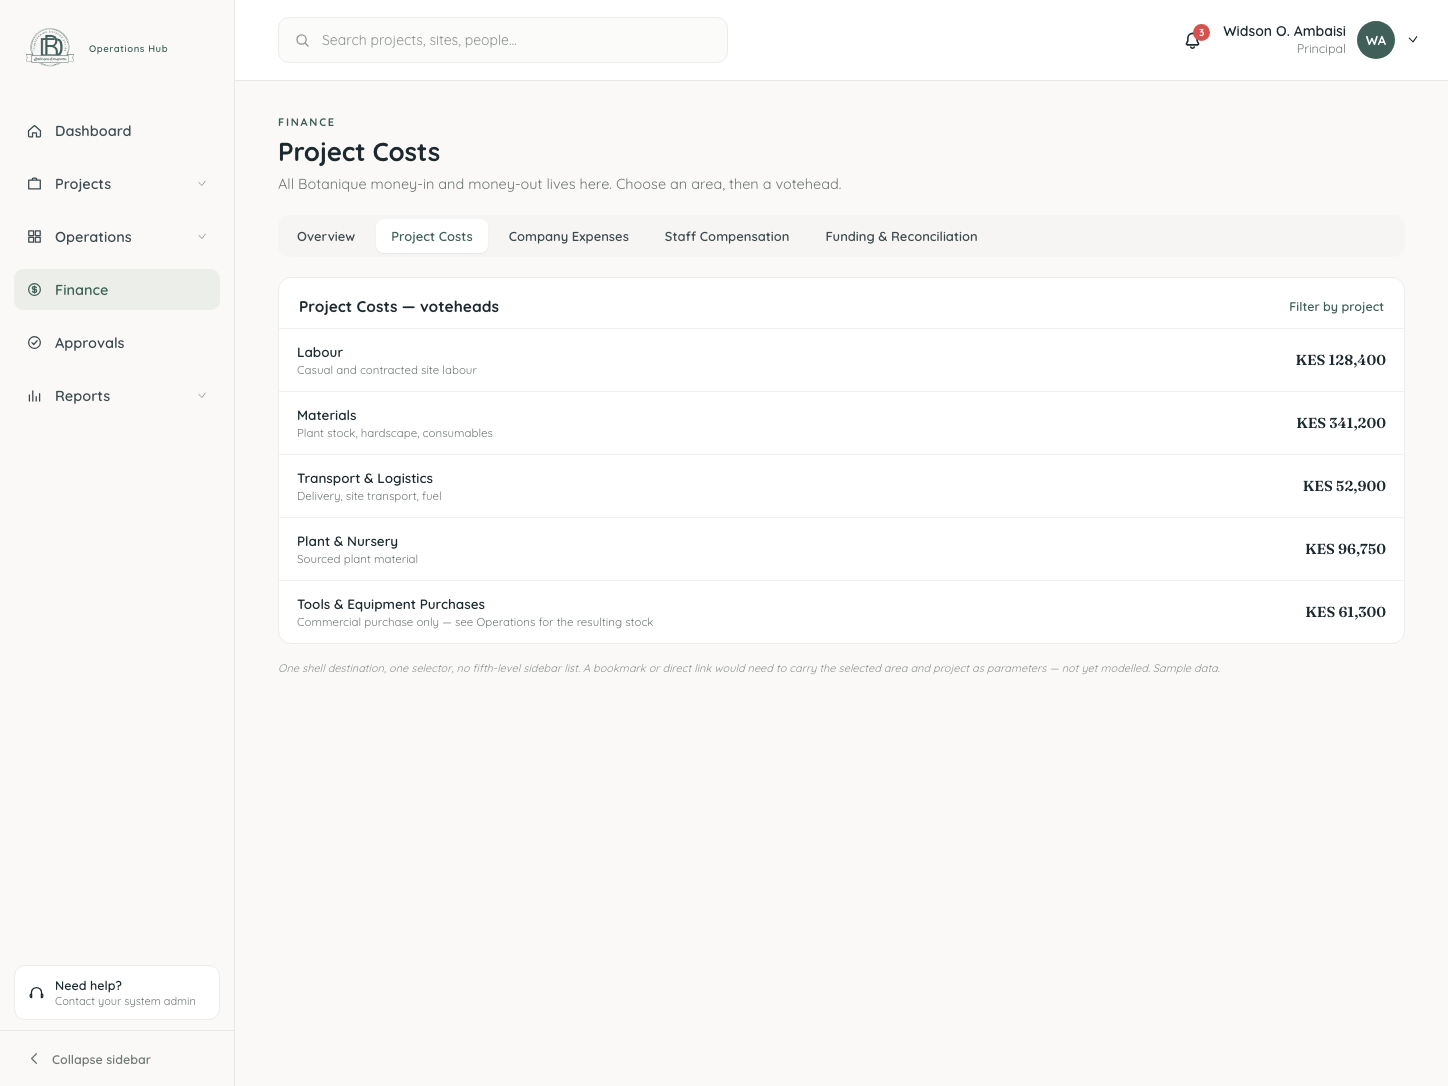
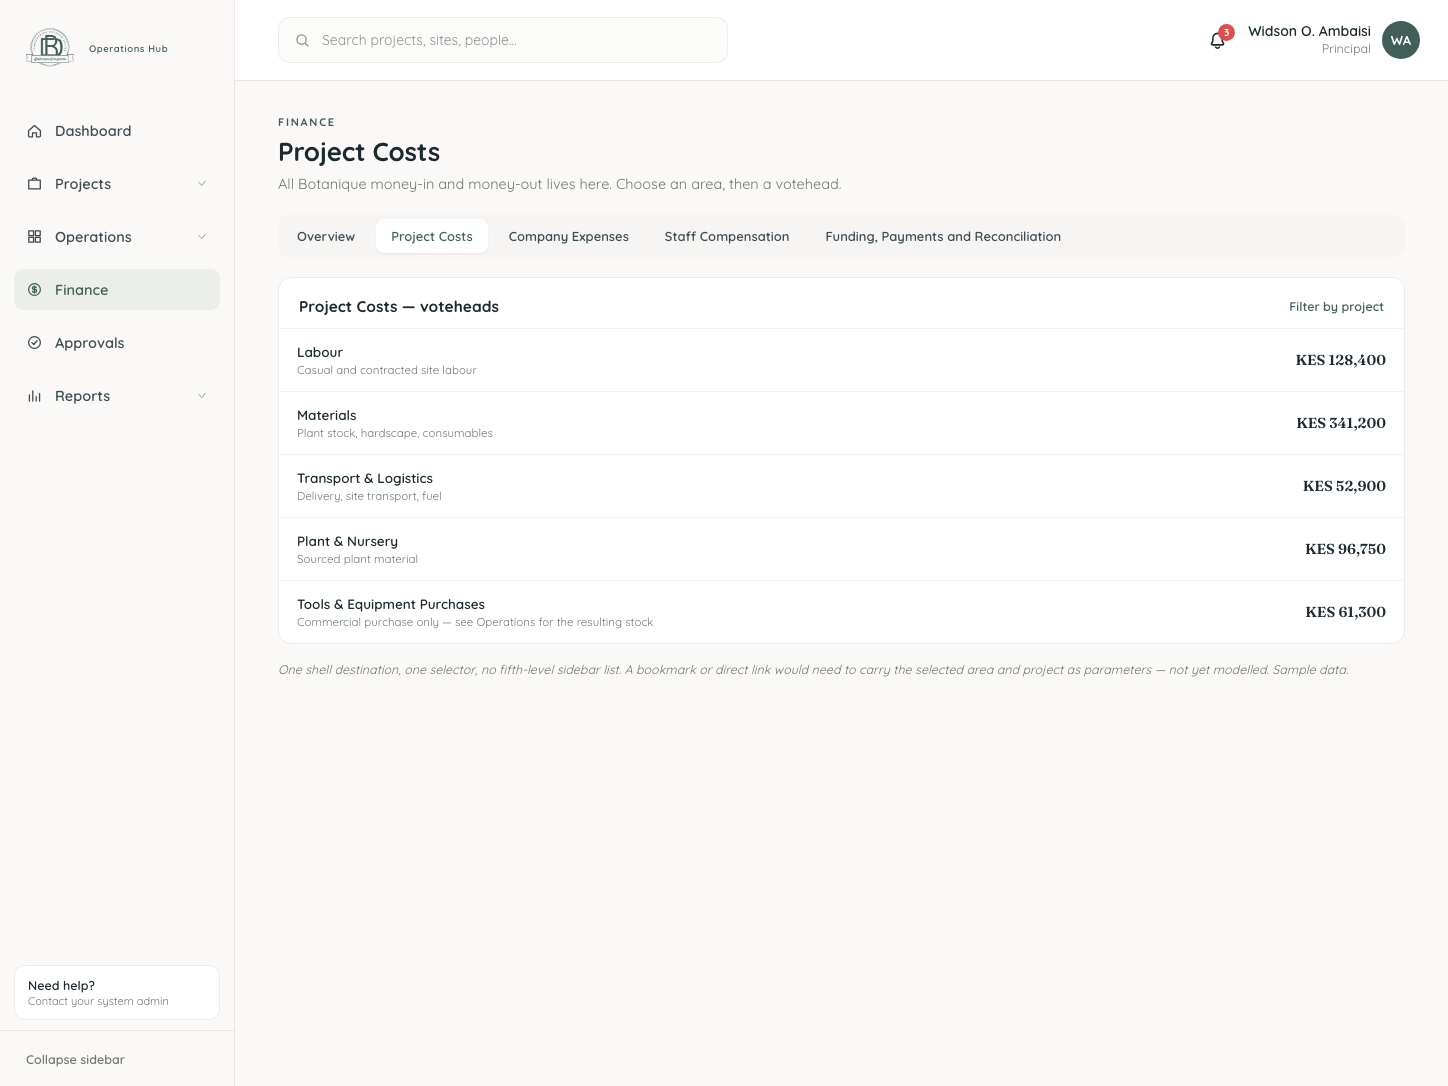
docs(ui-authority): fix two authority defects found in review
- 03-finance-desktop-landing.png used the compact chip abbreviation
  'Funding & Reconciliation' in the desktop in-page selector, where
  there is no space constraint; re-rendered with the canonical full
  name 'Funding, Payments and Reconciliation'.
- 08-illustrative-compact-vs-machine-generated.png (Board T) still
  carried its working-draft banner text ('DRAFT — NOT
  FOUNDER-APPROVED'), which contradicted this package's own
  Founder-approved status; corrected to an illustrative-only notice.
- decision-record.md referenced
  stage-7-operating-model-draft/decision-package-revision2-addendum2.md,
  a path that only ever existed in the untracked working draft and was
  removed from the worktree before this PR; replaced with a
  self-contained description of the considered alternative.

diff --git a/docs/ui-authority/operations-hub/operating-model-authority/decision-record.md b/docs/ui-authority/operations-hub/operating-model-authority/decision-record.md
@@ -62,9 +62,11 @@ authorised summaries. No duplicate ledgers.
 
 Mobile area selection: wrapped chips (all five areas visible, no horizontal scroll, no clipped
 labels, one selected at a time — wraps to three short rows at 375–400px given these label
-lengths). The compact dropdown/sheet alternative was considered and is documented in
-`stage-7-operating-model-draft/decision-package-revision2-addendum2.md` §2 but is not the
-approved treatment.
+lengths). A compact dropdown/sheet alternative — a single-row trigger that opens a full-width
+list of the five areas on tap — was considered and rejected in favour of the chips, because the
+chips show the full hierarchy with zero interaction while the sheet still costs one tap to see
+every area. The horizontally-scrolling selector tried earlier is withdrawn outright: it clipped
+labels and required discovering the scroll.
 
 Finance-to-inventory handoff: Finance records the commercial purchase once (supplier, quantity,
 cost, currency, evidence, approval, payment); Operations/Tools and Equipment receives the
